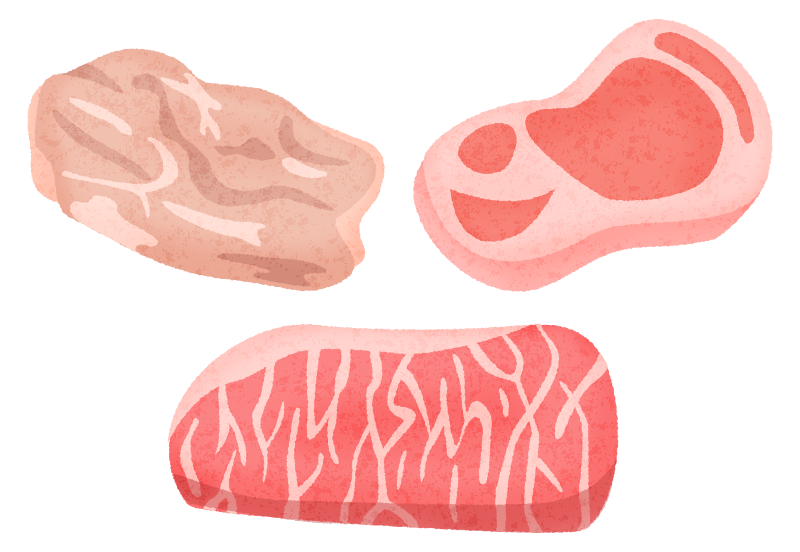
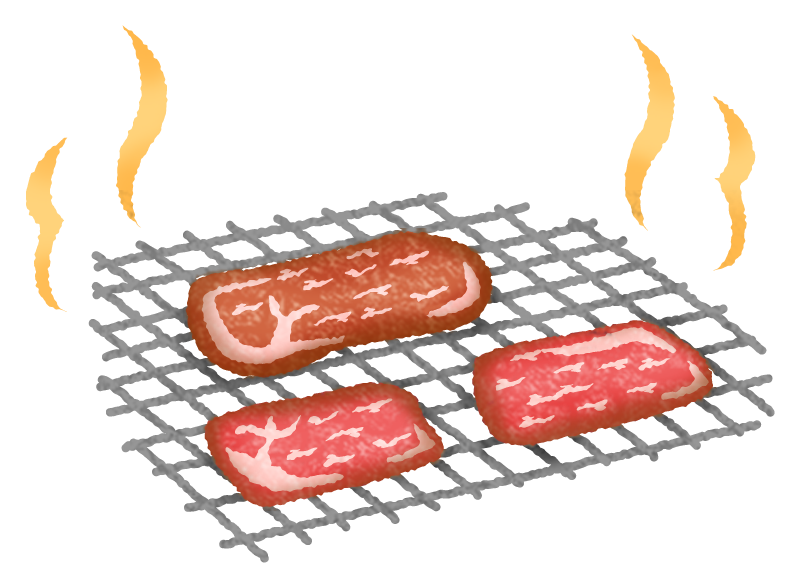
うんちからちくわに変更

diff --git a/WordReading/MessegeViewController.swift b/WordReading/MessegeViewController.swift
@@ -22,25 +22,32 @@ class MessegeViewController :UIViewController {
         　応用行動分析学の「継次的刺激ペアリング手続き」を取り入れ、観察するだけでひらがなと音声、絵の関係を自然に学習できる仕組みになっています。また、視線移動のスキル向上にも役立ちます。
 
         使い方
-        　2～4文字のひらがなをお子さまにタップさせてください。ひらがなが1文字ずつ表示され、タップするたびに対応する音声が流れます。すべての文字が表示された後、イラストが提示されます。
-        　繰り返し見ることで、文字と音声、絵の関係を無理なく習得できます。このアプリでは、「を」以外のひらがな50音を学習できます。
+        　2～4文字のひらがなを選び、お子さまにタップさせてください。ひらがなが1文字ずつ表示され、タップするたびに対応する音声が流れます。すべての文字が表示された後、イラストが提示され、一部のイラストでは音も鳴ります。
+        　繰り返し見ることで、文字と音声、絵の関係を無理なく習得できます。このアプリでは、「を」を除くひらがな50音を学習できます。
 
         テスト
-        　基礎テスト：継次的刺激ペアリングで使用したひらがなの読みを確認します。
-        　応用テスト：未使用の文字を用いて、ひらがなの読みを確認します。
+        　基礎テスト：継次的刺激ペアリング手続きで使用したひらがなの読みを確認します。
+        　応用テスト：未使用の単語を用いて、ひらがなの読みを確認します。
         　お子さまが正しく選べるようになったら、「もっと早く選んでみよう！」と声をかけてみてください。選択スピードが上がることで記憶が定着しやすくなり、アプリ以外の場面でも読める機会が増えていきます。
+        　テスト履歴では、苦手な単語を確認できます。（記録は1年後に自動的に消去されます。）
 
-        　テスト履歴では、苦手な単語を確認できます（記録は1年後に自動的に消去されます）。
-        
-        製作者：nikaido
-        
         このアプリは、以下の画像、音声、効果音を使用しています。
         
-        画像：フリーイラスト素材集 ジャパクリップ
+        画　像：フリーイラスト素材集 ジャパクリップ
         
-        音声：VOICEVOX Nemo
+        音　声：VOICEVOX Nemo
         
         効果音：Springin’ Sound Stock
+        
+        
+        
+        謝辞
+        　最後になりましたが、筑波大学の野呂先生をはじめ、多くの先生方にご指導いただき、応用行動分析学や障害科学について学ぶ貴重な機会を得ることができました。
+        　また、本アプリの開発に際し、ご支援いただいた茨城県教育委員会ならびに、所属する特別支援学校の校長先生、副校長先生、教頭先生、そして先生方に深く感謝申し上げます。
+        　さらに、本アプリの作成にあたり、最後まで温かくサポートしていただいたiOSアカデミアの星様、本アプリで使用する画像や音声、効果音の提供・使用を許可してくださった皆様にも、心より御礼申し上げます。
+        　
+        
+        製作者：nikaido
         """
         
         // NSAttributedStringを作成
@@ -82,7 +89,12 @@ class MessegeViewController :UIViewController {
         
         // UITextViewにNSAttributedStringを設定
         text.attributedText = attributedString
+        
+        // UITextViewを編集不可にする
+        text.isEditable = false
+        text.isSelectable = false 
     }
+    
     
     
     @IBAction func returnButton(_ sender: UIButton) {

diff --git a/WordReading/Ssp4WordViewController.swift b/WordReading/Ssp4WordViewController.swift
@@ -170,10 +170,15 @@ class Ssp4WordViewController: UIViewController {
     }
     
     func soundEffects(volume: Float) {
+        var adjustedVolume = volume
+        if selectedWord == "にわとり,かみなり" {
+            adjustedVolume = 1.0
+        }
+        
         if let url = Bundle.main.url(forResource: "\(selectedWord!)e", withExtension: "mp3") {
             do {
                 audioPlayer = try AVAudioPlayer(contentsOf: url)
-                audioPlayer.volume = volume // ボリュームを設定
+                audioPlayer.volume = adjustedVolume // ボリュームを設定
                 audioPlayer.play()
             } catch {
                 print("音声ファイルの再生に失敗しました: \(error.localizedDescription)")

diff --git a/WordReading/Ssp2WordViewController.swift b/WordReading/Ssp2WordViewController.swift
@@ -126,7 +126,11 @@ class Ssp2WordViewController: UIViewController {
     }
     @IBAction func imageButton(_ sender: UIButton) {
         tapButton += 1
-        soundEffects(volume: 0.1)
+        
+        // selectedWordが"にく"の場合、ボリュームを1.0に設定し、それ以外は0.1に設定
+        let volume: Float = (selectedWord == "にく") ? 1.0 : 0.1
+        soundEffects(volume: volume)
+
         if tapButton >= 1 {
             imageB.isEnabled = false
         }